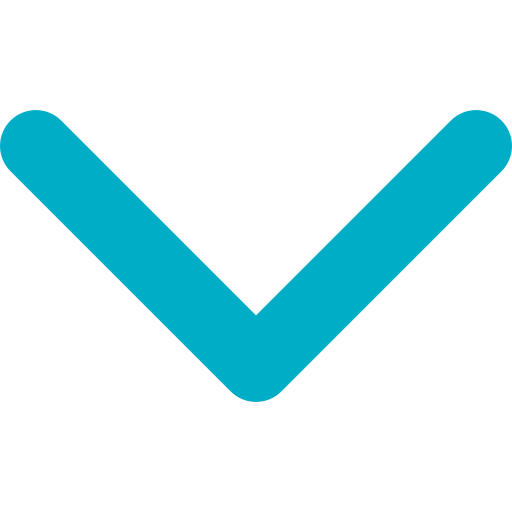
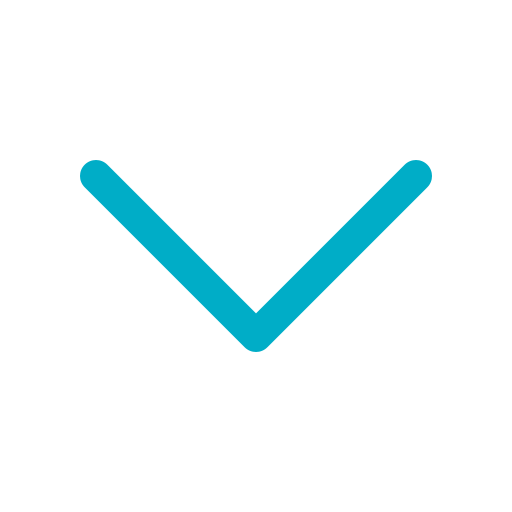
[Add]

diff --git a/client/src/components/Map.jsx b/client/src/components/Map.jsx
@@ -49,6 +49,8 @@ export default function MapContainer({
     } else if (point === "end") {
       getAddress(mouseEvent.latLng.getLng(), mouseEvent.latLng.getLat(), "end");
       setEndPosition(position);
+    } else if (point === null) {
+      return;
     } else {
       getAddress(mouseEvent.latLng.getLng(), mouseEvent.latLng.getLat(), point);
       setWayPointPosition({ ...wayPointPosition, [point]: position });

diff --git a/client/src/components/Insert.jsx b/client/src/components/Insert.jsx
@@ -230,7 +230,7 @@ export default function Insert({
                   <img
                     src={naviList ? "./up-arrow.png" : "./down-arrow.png"}
                     alt="화살표"
-                    style={{ width: "1.2rem", height: "0.8rem" }}
+                    style={{ width: "1.2rem", verticalAlign: "middle" }}
                   />
                 </p>
                 {naviList && (
